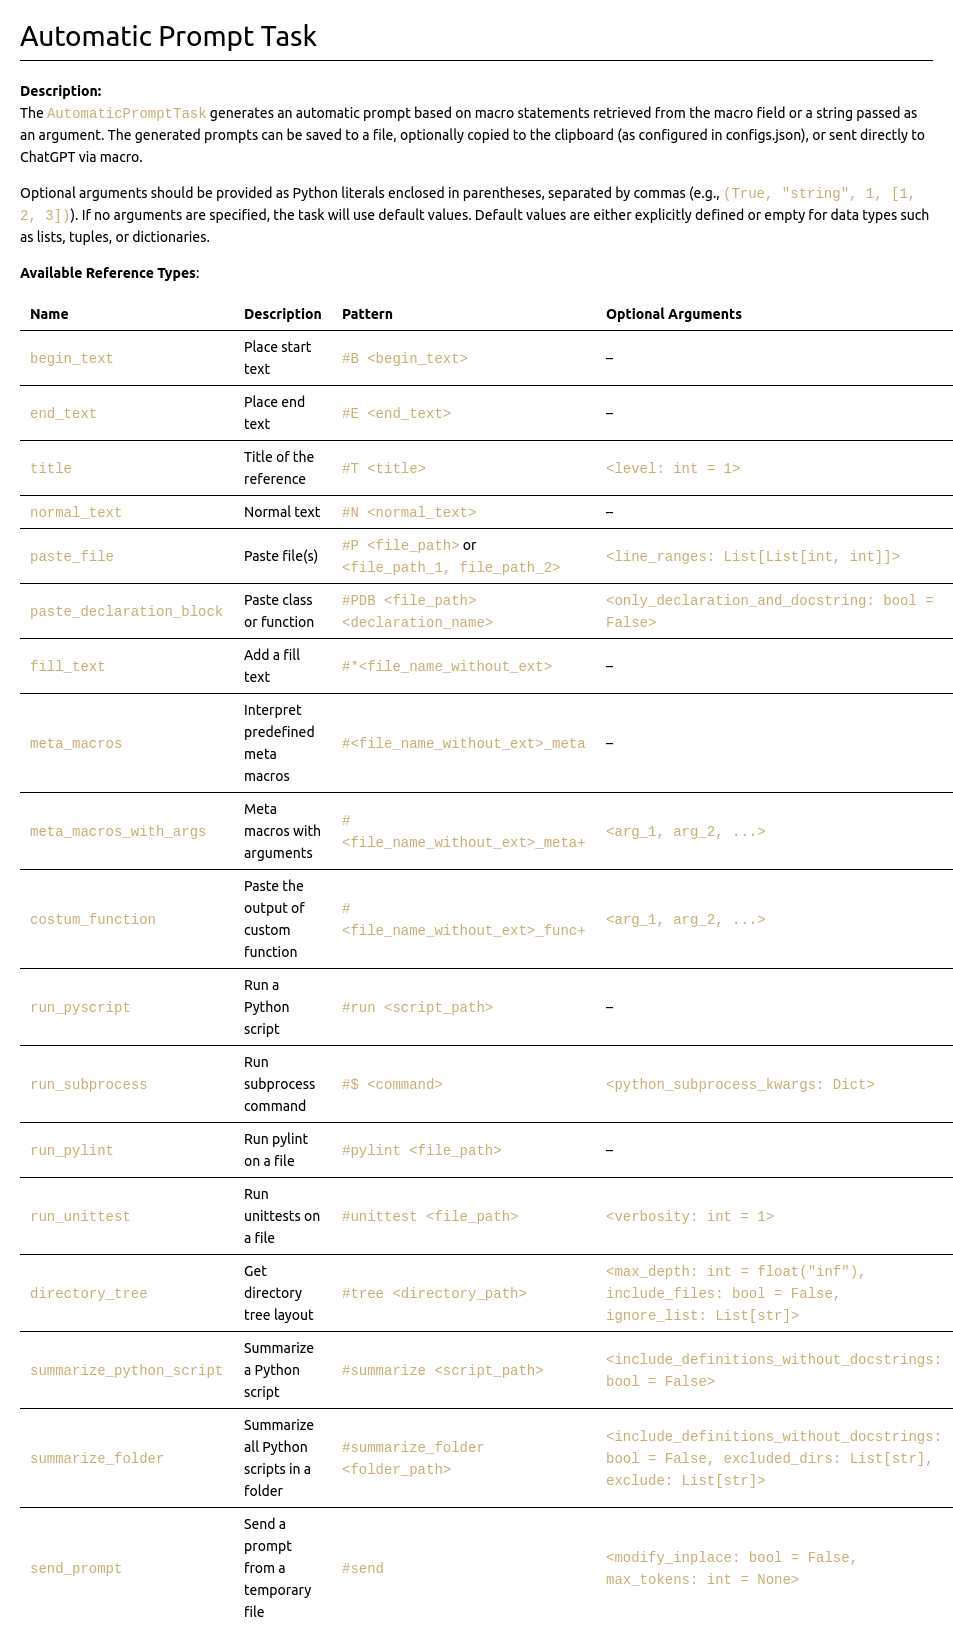
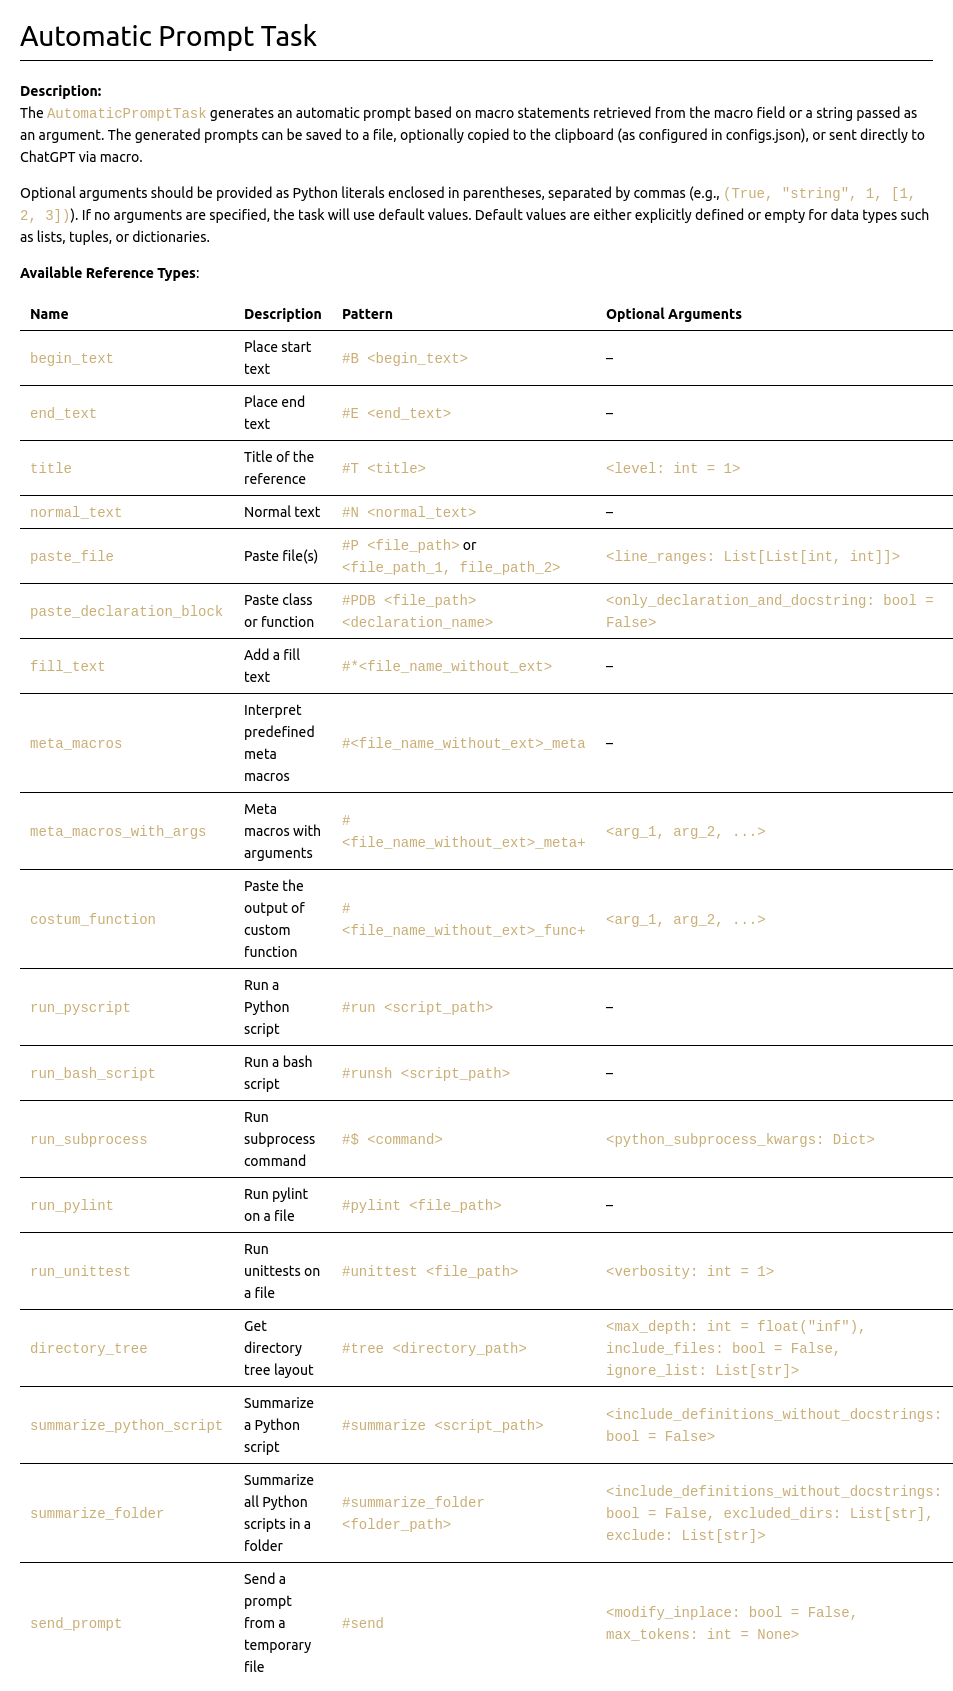
Added run bash script macro to automatic prompt task

diff --git a/tasks/tasks/automatic_prompt/automatic_prompt_interpreter.py b/tasks/tasks/automatic_prompt/automatic_prompt_interpreter.py
@@ -14,6 +14,7 @@ from tasks.tasks.automatic_prompt.line_validation import (
     line_validation_for_meta_macros_with_args,
     line_validation_for_costum_function,
     line_validation_for_run_pyscript,
+    line_validation_for_run_bash_script,
     line_validation_for_run_subprocess,
     line_validation_for_run_pylint,
     line_validation_for_run_unittest,
@@ -226,6 +227,21 @@ class AutomaticPromptInterpreter(MacroInterpreter):
             return macro_data
         return None
 
+    def validate_run_bash_script_macro(self, line):
+        if result := line_validation_for_run_bash_script(line):
+            script_path = find_file_sloppy(result, self.profile.root, self.current_file)
+            output = subprocess.run(
+                [script_path],
+                shell=True,
+                capture_output=True,
+                text=True,
+            )
+            output = output.stderr if output.returncode != 0 else output.stdout
+            output = render_to_markdown(output, format="shell")
+            macro_data = {"type": MACROS.RUN_BASH_SCRIPT, "text": output}
+            return macro_data
+        return None
+
     def validate_run_subprocess_macro(self, line):
         if result := line_validation_for_run_subprocess(line):
             command, kwargs = result
@@ -233,8 +249,8 @@ class AutomaticPromptInterpreter(MacroInterpreter):
             # Force 'capture_output' and 'text' kwargs to True
             kwargs["capture_output"] = True
             kwargs["text"] = True
-            result = subprocess.run(command, **kwargs)
-            output = result.stderr if result.returncode != 0 else result.stdout
+            output = subprocess.run(command, **kwargs)
+            output = output.stderr if output.returncode != 0 else output.stdout
             text = "$ " + command + "\n" + output
             macro_data = {"type": MACROS.RUN_SUBPROCESS, "text": text}
             return macro_data

diff --git a/tasks/tasks/automatic_prompt/automatic_prompt_task.py b/tasks/tasks/automatic_prompt/automatic_prompt_task.py
@@ -17,6 +17,7 @@ Available reference types:
 | meta_macros_with_args    | Meta macros with args                   | #<file_name_without_ext>_meta+                       | <arg_1, arg_2, ...>                                                                           |
 | costum_function          | Paste the output of custom function     | #<file_name_without_ext>_func+                       | <arg_1, arg_2, ...>                                                                           |
 | run_pyscript             | Run a Python script                     | #run <script_path>                                   | –                                                                                             |
+| run_bash_script          | Run a bash script                       | #runsh <script_path>                                 | –                                                                                             |
 | run_command              | Run Command                             | #$ <command>                                         | <subprocess kwargs: Dict>                                                                     |
 | run_pylint               | Run pylint on a file                    | #run_pylint <file_path>                              | –                                                                                             |
 | run_unittest             | Run unittest on a file                  | #run_unittest <file_path>                            | <verbosity: int>                                                                              |

diff --git a/tasks/tasks/automatic_prompt/line_validation.py b/tasks/tasks/automatic_prompt/line_validation.py
@@ -60,6 +60,11 @@ run_pyscript_tag = TAGS.RUN_PYSCRIPT.value
 run_pyscript_pattern = rf"{run_pyscript_tag}\s(\S+\.py|{CURRENT_FILE_TAG})"
 RUN_PYSCRIPT_PATTERN = re.compile(run_pyscript_pattern)
 
+# RUN_BASH_SCRIPT_PATTERN
+run_bash_script_tag = TAGS.RUN_BASH_SCRIPT.value
+run_bash_script_pattern = rf"{run_bash_script_tag}\s(\S+\.sh|{CURRENT_FILE_TAG})"
+RUN_BASH_SCRIPT_PATTERN = re.compile(run_bash_script_pattern)
+
 # RUN_SUBPROCESS_PATTERN
 run_subprocess_tag = TAGS.RUN_SUBROCESS.value
 run_subprocess_pattern = rf"{run_subprocess_tag}\s*([^\n\(\["
@@ -227,6 +232,15 @@ def line_validation_for_run_pyscript(line):
     Validate if the line is a run python script macro.
     """
     if match := RUN_PYSCRIPT_PATTERN.match(line):
+        return match.group(1)
+    return None
+
+
+def line_validation_for_run_bash_script(line):
+    """
+    Validate if the line is a run bash script macro.
+    """
+    if match := RUN_BASH_SCRIPT_PATTERN.match(line):
         return match.group(1)
     return None
 

diff --git a/tasks/configs/constants.py b/tasks/configs/constants.py
@@ -27,6 +27,7 @@ class AUTOMATIC_PROMPT_MACROS(Enum):
     FILL_TEXT = "fill_text"
     COSTUM_FUNCTION = "costum_function"
     RUN_PYSCRIPT = "run_pyscript"
+    RUN_BASH_SCRIPT = "run_bash_script"
     RUN_SUBPROCESS = "run_subprocess"
     RUN_PYLINT = "run_pylint"
     RUN_UNITTEST = "run_unittest"
@@ -51,6 +52,7 @@ class AUTOMATIC_PROMPT_TAGS(Enum):
     COSTUM_FUNCTION_END = "_func"
     FILL_TEXT = MACRO_TAG + r"\*"
     RUN_PYSCRIPT = MACRO_TAG + "run"
+    RUN_BASH_SCRIPT = MACRO_TAG + "runsh"
     RUN_PYLINT = MACRO_TAG + "pylint"
     RUN_SUBROCESS = MACRO_TAG + r"\$"
     UNITTEST = MACRO_TAG + "unittest"

diff --git a/tasks/management/support_files/CHEATSHEET.md b/tasks/management/support_files/CHEATSHEET.md
@@ -69,6 +69,7 @@ Optional arguments should be provided as Python literals enclosed in parentheses
 | `meta_macros_with_args`  | Meta macros with arguments ([see more](./costumizations/meta_macros_with_args/template_2.py))     | `#<file_name_without_ext>_meta+`                         | `<arg_1, arg_2, ...>`                                                                                 |
 | `costum_function`        | Paste the output of custom function ([see more](./costumizations/functions/costum_function_template/template_3.py)) | `#<file_name_without_ext>_func+`       | `<arg_1, arg_2,>`                                                                                     |
 | `run_pyscript`           | Run a Python script                                                                               | `#run <script_path>`                                     | –                                                                                                     |
+| `run_bash_script`        | Run a bash script                                                                                 | `#runsh <script_path                                     | –                                                                                                     |
 | `run_subprocess`         | Run subprocess command                                                                            | `#$ <command>`                                           | `<python_subprocess_kwargs: Dict>`                                                                    |
 | `run_pylint`             | Run pylint on a file                                                                              | `#pylint <file_path>`                                    | –                                                                                                     |
 | `run_unittest`           | Run unittests on a file                                                                           | `#unittest <file_path>`                                  | `<verbosity: int = 1>`                                                                                |

diff --git a/README.md b/README.md
@@ -126,6 +126,7 @@ The `AutomaticPromptTask` generates an automatic prompt based on macro statement
 | `meta_macros_with_args`  | Meta macros with arguments                                                                       | `#<file_name_without_ext>_meta+`                        | `<arg_1, arg_2, ...>`                                                                                |
 | `costum_function`        | Paste the output of custom function                                                              | `#<file_name_without_ext>_func+`                        | `<arg_1, arg_2, ...>`                                                                                |
 | `run_pyscript`           | Run a Python script                                                                              | `#run <script_path>`                                    | –                                                                                                    |
+| `run_bash_script`        | Run a bash script                                                                                | `#runsh <script_path>`                                  | –                                                                                                    |
 | `run_subprocess`         | Run subprocess command                                                                           | `#$ <command>`                                          | `<python_subprocess_kwargs: Dict>`                                                                   |
 | `run_pylint`             | Run pylint on a file                                                                             | `#pylint <file_path>`                                   | –                                                                                                    |
 | `run_unittest`           | Run unittests on a file                                                                          | `#unittest <file_path>`                                 | `<verbosity: int = 1>`                                                                               |
